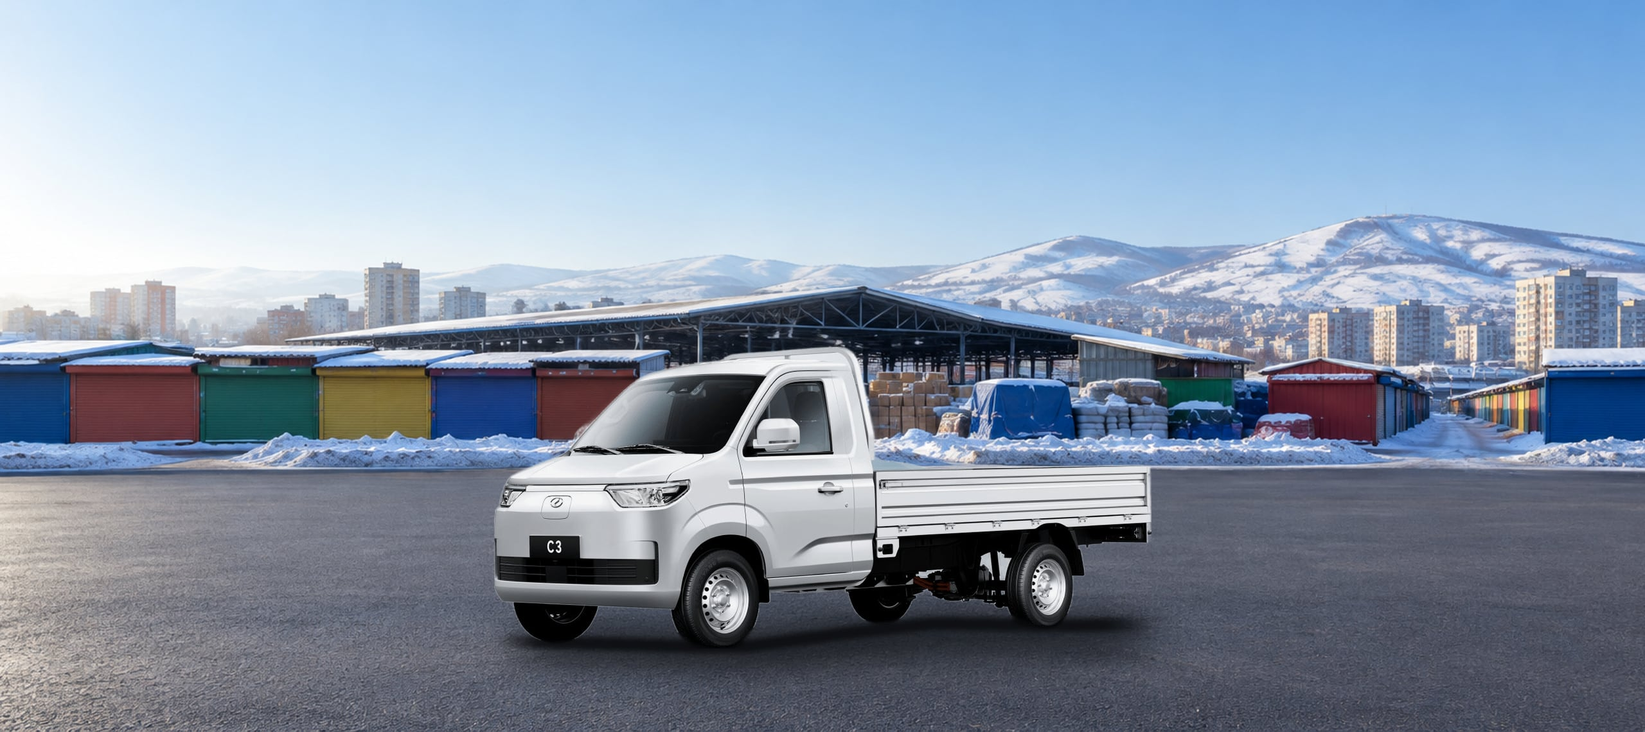
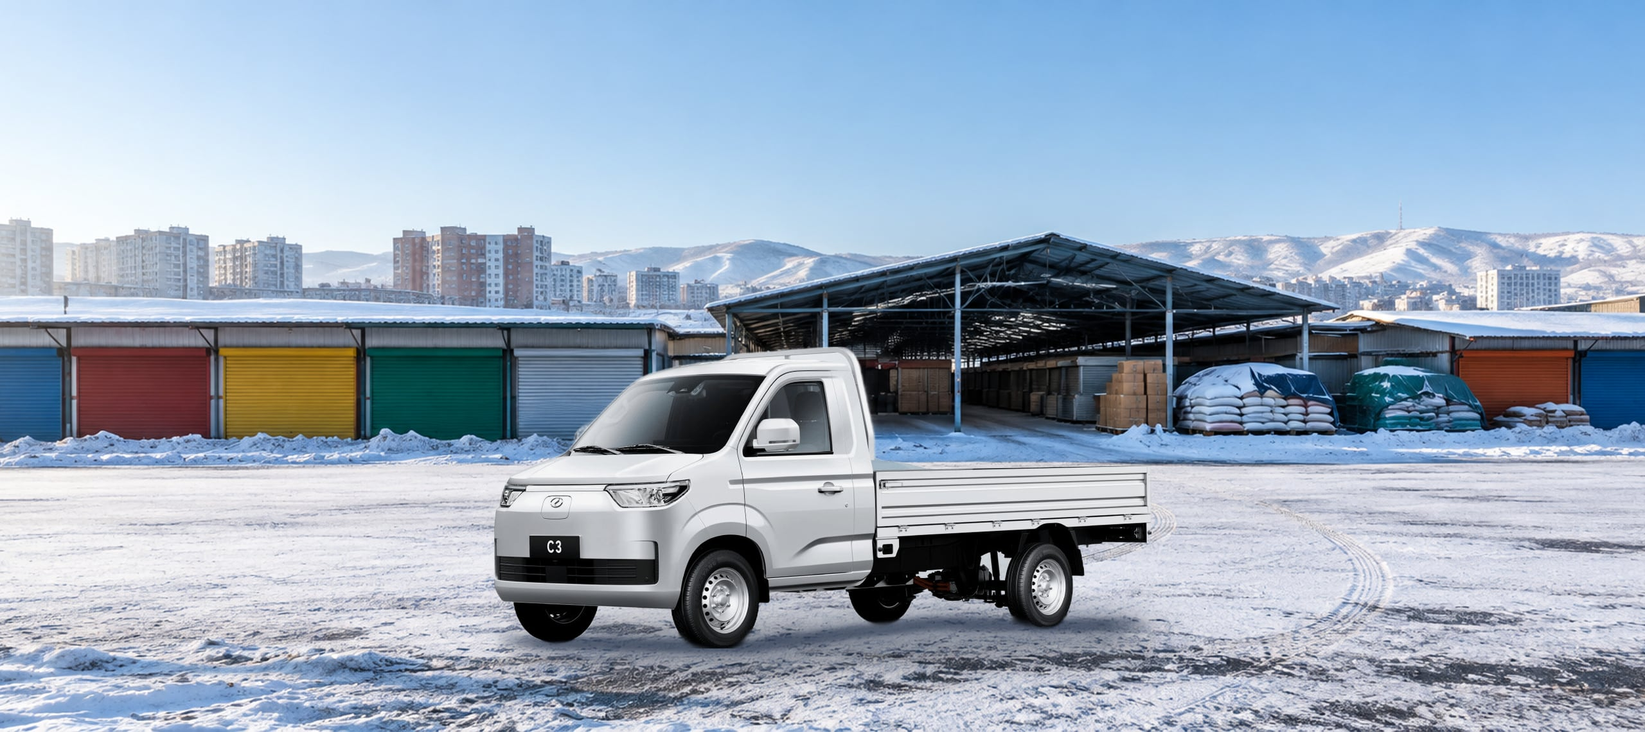
Өвлийн өнгө төрх Hero. сарын нэмнэлт өөрчлөлт

diff --git a/components/layout/SiteFooter.tsx b/components/layout/SiteFooter.tsx
@@ -1,12 +1,17 @@
 import Link from "next/link";
 import type { NavCategory } from "@/data/navigation";
 
-// TODO: Албан ёсны сошиал болон "Бидний тухай" хуудсуудын URL-ийг оруулах.
-const about = [
-  { label: "Танилцуулга", href: "#" },
-  { label: "Шинэ мэдээ", href: "#" },
-  { label: "Хүсэлт илгээх", href: "/#test-drive" },
-  { label: "Нууцын бодлого", href: "/legal/privacy/" }
+// Footer, variant B (user, 2026-11-15): a test-drive call to action on top (the button left the navbar, so
+// every page ends with a way to it), then four columns. Every model used to be listed here with its
+// description (~1,000px); the models are in the navbar menus, so the footer links the six categories to the
+// filtered homepage list instead (~420px).
+// TODO: real phone number, opening hours, street address and social URLs (the icons still point to "#").
+
+const services = [
+  { label: "Ногоон зээл", href: "/green-loan/" },
+  { label: "Батерейн баталгаа", href: "/warranty/" },
+  { label: "Туршилтын жолоодлого", href: "/#test-drive" },
+  { label: "Урьдчилсан захиалга", href: "/preorder/" }
 ];
 
 const legal = [
@@ -15,75 +20,84 @@ const legal = [
   { label: "Күүки тохиргоо", href: "/legal/cookies/" }
 ];
 
+const heading = "m-0 mb-3 text-xs font-bold uppercase tracking-[.08em] text-white";
+const list = "m-0 grid list-none gap-2 p-0 text-small text-[#cfe2d8]";
+const link = "text-[#cfe2d8] no-underline hover:text-white hover:underline";
+
 export function SiteFooter({ navigation }: { navigation: NavCategory[] }) {
   return (
-    <footer className="site-footer">
-      <div className="site-footer__main">
-        <nav className="site-footer__models" aria-label="Загварууд">
-          <Link className="site-footer__logo" href="/" aria-label="Нүүр хуудас">
-            <img src="/assets/brand-logo-transparent.png" width={57} height={36} alt="" />
-          </Link>
-          <h2 className="site-footer__heading">Загварууд</h2>
-          <div className="site-footer__groups">
-            {navigation.map((category) => (
-              <div className="site-footer__group" key={category.id}>
-                <h3>{category.label}</h3>
-                <ul>
-                  {category.items.map((item) => (
-                    <li key={item.key}>
-                      <Link href={item.href}>
-                        <span className="site-footer__model">{item.name}</span>{" "}
-                        <span className="site-footer__desc">{item.desc}</span>
-                      </Link>
-                    </li>
-                  ))}
-                </ul>
-              </div>
-            ))}
+    <footer className="tw bg-[#083d28] text-[#dfeee6]">
+      <div className="bg-[#0f5a3a] px-global">
+        <div className="mx-auto flex max-w-[1376px] flex-wrap items-center justify-between gap-4 py-6">
+          <div>
+            <p className="m-0 text-[20px] font-bold tracking-tight text-white">Машинаа өөрөө туршаад үзээрэй</p>
+            <p className="m-0 text-small text-[#cfe7da]">Туршилтын жолоодлогод бүртгүүлэхэд хэдхэн минут</p>
           </div>
-        </nav>
+          <Link className="btn min-h-[44px] border-white bg-white px-6 text-[#0f5a3a] hover:bg-[#d9f7e5]" href="/#test-drive">Туршилтын жолоодлого</Link>
+        </div>
+      </div>
 
-        <div className="site-footer__about">
-          <div className="site-footer__block">
-            <h2 className="site-footer__heading">Бидний тухай</h2>
-            <ul>
-              {about.map((item) => <li key={item.label}><a href={item.href}>{item.label}</a></li>)}
+      <div className="px-global">
+        <div className="mx-auto grid max-w-[1376px] gap-8 py-10 sm:grid-cols-2 lg:grid-cols-[1.4fr_1fr_1fr_1fr]">
+          <div>
+            <Link href="/" aria-label="Нүүр хуудас" className="mb-3 inline-block">
+              <img src="/assets/brand-logo-transparent.png" width={57} height={36} alt="" className="block brightness-0 invert" />
+            </Link>
+            <p className="m-0 mb-4 max-w-[34ch] text-small text-[#cfe2d8]">Цахилгаан ачааны болон зорчигчийн машин. −30°C-т туршсан, 6 жил / 300,000 км батерейн баталгаатай.</p>
+            <ul className="m-0 flex list-none gap-2 p-0" aria-label="Биднийг дагах">
+              {[
+                { label: "Facebook", path: <path fill="currentColor" d="M13.5 21v-7.6h2.6l.4-3h-3V8.5c0-.9.3-1.5 1.5-1.5h1.6V4.3c-.3 0-1.2-.1-2.3-.1-2.3 0-3.9 1.4-3.9 4v2.2H7.8v3h2.6V21h3.1z" /> },
+                { label: "Instagram", path: <><rect x="3.5" y="3.5" width="17" height="17" rx="5" fill="none" stroke="currentColor" strokeWidth="2" /><circle cx="12" cy="12" r="3.8" fill="none" stroke="currentColor" strokeWidth="2" /><circle cx="17.2" cy="6.8" r="1.2" fill="currentColor" /></> },
+                { label: "YouTube", path: <path fill="currentColor" d="M21.6 7.2a2.5 2.5 0 0 0-1.8-1.8C18.2 5 12 5 12 5s-6.2 0-7.8.4a2.5 2.5 0 0 0-1.8 1.8C2 8.8 2 12 2 12s0 3.2.4 4.8a2.5 2.5 0 0 0 1.8 1.8C5.8 19 12 19 12 19s6.2 0 7.8-.4a2.5 2.5 0 0 0 1.8-1.8c.4-1.6.4-4.8.4-4.8s0-3.2-.4-4.8zM10 15V9l5.2 3L10 15z" /> }
+              ].map((social) => (
+                <li key={social.label}>
+                  <a href="#" aria-label={social.label} target="_blank" rel="noopener" className="grid h-9 w-9 place-items-center rounded-full bg-white/10 text-white hover:bg-white hover:text-[#0f5a3a]">
+                    <svg width="18" height="18" viewBox="0 0 24 24" aria-hidden="true">{social.path}</svg>
+                  </a>
+                </li>
+              ))}
             </ul>
           </div>
 
-          <div className="site-footer__block">
-            <h2 className="site-footer__heading">Холбоо барих</h2>
-            <div className="site-footer__address">
-              <p><span>Хаяг</span>Улаанбаатар хот</p>
-              <a className="site-footer__location" href="https://www.google.com/maps/search/?api=1&query=Ulaanbaatar" target="_blank" rel="noopener">
-                <svg width="16" height="16" viewBox="0 0 24 24" aria-hidden="true"><path d="M12 22s7-6.2 7-12a7 7 0 1 0-14 0c0 5.8 7 12 7 12z" fill="none" stroke="currentColor" strokeWidth="2" strokeLinejoin="round" /><circle cx="12" cy="10" r="2.6" fill="none" stroke="currentColor" strokeWidth="2" /></svg>
-                Байршил
-              </a>
-            </div>
-          </div>
+          <nav aria-label="Загварууд">
+            <h2 className={heading}>Загварууд</h2>
+            <ul className={list}>
+              {navigation.map((category) => (
+                <li key={category.id}><Link className={link} href={`/?category=${category.id}#models`}>{category.label}</Link></li>
+              ))}
+            </ul>
+          </nav>
 
-          <div className="site-footer__block">
-            <h2 className="site-footer__heading">Биднийг дагах</h2>
-            <ul className="site-footer__social">
-              <li><a href="#" aria-label="Facebook" target="_blank" rel="noopener">
-                <svg width="20" height="20" viewBox="0 0 24 24" aria-hidden="true"><path fill="currentColor" d="M13.5 21v-7.6h2.6l.4-3h-3V8.5c0-.9.3-1.5 1.5-1.5h1.6V4.3c-.3 0-1.2-.1-2.3-.1-2.3 0-3.9 1.4-3.9 4v2.2H7.8v3h2.6V21h3.1z" /></svg>
-              </a></li>
-              <li><a href="#" aria-label="Instagram" target="_blank" rel="noopener">
-                <svg width="20" height="20" viewBox="0 0 24 24" aria-hidden="true"><rect x="3.5" y="3.5" width="17" height="17" rx="5" fill="none" stroke="currentColor" strokeWidth="2" /><circle cx="12" cy="12" r="3.8" fill="none" stroke="currentColor" strokeWidth="2" /><circle cx="17.2" cy="6.8" r="1.2" fill="currentColor" /></svg>
-              </a></li>
-              <li><a href="#" aria-label="YouTube" target="_blank" rel="noopener">
-                <svg width="22" height="22" viewBox="0 0 24 24" aria-hidden="true"><path fill="currentColor" d="M21.6 7.2a2.5 2.5 0 0 0-1.8-1.8C18.2 5 12 5 12 5s-6.2 0-7.8.4a2.5 2.5 0 0 0-1.8 1.8C2 8.8 2 12 2 12s0 3.2.4 4.8a2.5 2.5 0 0 0 1.8 1.8C5.8 19 12 19 12 19s6.2 0 7.8-.4a2.5 2.5 0 0 0 1.8-1.8c.4-1.6.4-4.8.4-4.8s0-3.2-.4-4.8zM10 15V9l5.2 3L10 15z" /></svg>
-              </a></li>
+          <nav aria-label="Үйлчилгээ">
+            <h2 className={heading}>Үйлчилгээ</h2>
+            <ul className={list}>
+              {services.map((item) => <li key={item.label}><Link className={link} href={item.href}>{item.label}</Link></li>)}
+            </ul>
+          </nav>
+
+          <div>
+            <h2 className={heading}>Холбоо барих</h2>
+            <ul className={list}>
+              <li>Улаанбаатар хот</li>
+              <li>
+                <a className={`${link} inline-flex items-center gap-1.5`} href="https://www.google.com/maps/search/?api=1&query=Ulaanbaatar" target="_blank" rel="noopener">
+                  <svg width="15" height="15" viewBox="0 0 24 24" aria-hidden="true"><path d="M12 22s7-6.2 7-12a7 7 0 1 0-14 0c0 5.8 7 12 7 12z" fill="none" stroke="currentColor" strokeWidth="2" strokeLinejoin="round" /><circle cx="12" cy="10" r="2.6" fill="none" stroke="currentColor" strokeWidth="2" /></svg>
+                  Байршил
+                </a>
+              </li>
+              <li><Link className={link} href="/#test-drive">Хүсэлт илгээх</Link></li>
             </ul>
           </div>
         </div>
       </div>
 
-      <div className="site-footer__bottom">
-        <p>© {new Date().getFullYear()}. Бүх эрх хуулиар хамгаалагдсан.</p>
-        <ul>
-          {legal.map((item) => <li key={item.label}><Link href={item.href}>{item.label}</Link></li>)}
-        </ul>
+      <div className="border-0 border-t border-solid border-white/15 px-global">
+        <div className="mx-auto flex max-w-[1376px] flex-wrap items-center justify-between gap-x-6 gap-y-2 py-4 text-small text-[#a9c7b8]">
+          <p className="m-0">© {new Date().getFullYear()}. Бүх эрх хуулиар хамгаалагдсан.</p>
+          <ul className="m-0 flex list-none flex-wrap gap-x-5 gap-y-1 p-0">
+            {legal.map((item) => <li key={item.label}><Link className="text-[#a9c7b8] no-underline hover:text-white" href={item.href}>{item.label}</Link></li>)}
+          </ul>
+        </div>
       </div>
     </footer>
   );

diff --git a/components/home/SavingsTeaser.tsx b/components/home/SavingsTeaser.tsx
@@ -1,0 +1,150 @@
+"use client";
+import { useMemo, useState } from "react";
+import { FuelPriceTable, useOpenSavings } from "@/components/forms/SavingsCalculator";
+import { calculateSavings, ELECTRICITY_PRICE, EXTENDER_FUEL_USE, type CalcModel, type FuelPrices } from "@/data/savings";
+
+// Fuel-cost section right under the hero (user, 2026-11-15; reference: a "business profit calculator" with a
+// km slider and three result cards). One model and the visitor's km per day give three figures: the diesel
+// vehicle's monthly fuel, the Ruichi's monthly charging, and the yearly saving. Each card has a bar on a fixed
+// scale (the figure at the slider's maximum), so the bars rise and fall as the slider moves. Same formula,
+// models and today's fuel prices as the full calculator, which "Дэлгэрэнгүй тооцоолох" opens.
+const MODELS = ["ec75pro-cargo", "r5pro-passenger", "c5-reev", "c3", "ed71s"];
+const DAYS = 26;
+const KM_MIN = 20, KM_MAX = 300, KM_START = 80;
+const STOPS = [
+  { km: 40, label: "Хот дотор" },
+  { km: 150, label: "Идэвхтэй түгээлт" },
+  { km: 300, label: "Хот хооронд" }
+];
+
+const tugrik = (v: number) => `${Math.round(v).toLocaleString("en-US")} ₮`;
+const stopLeft = (km: number) => `${((km - KM_MIN) / (KM_MAX - KM_MIN)) * 100}%`;
+
+function costs(model: CalcModel, kmPerDay: number, prices: FuelPrices["prices"]) {
+  return calculateSavings({
+    model, compareFuel: model.compare.fuel, compareConsumption: model.compare.consumption,
+    kmPerDay, daysPerMonth: DAYS, price: 0, downPercent: 0, months: 0, income: "salary"
+  }, prices);
+}
+
+/** A result card: label, figure, note, and a bar whose height is value / max. */
+function Card({ tone, label, value, note, share }: { tone: "diesel" | "ruichi" | "saving"; label: string; value: string; note: string; share: number }) {
+  const styles = {
+    diesel: { box: "border-line bg-white", label: "text-ink-muted", value: "text-ink", note: "text-ink-muted", track: "bg-[#eef1ef]", bar: "bg-[#b3bbb6]" },
+    ruichi: { box: "border-[#bcd7c7] bg-[#f3f9f5]", label: "text-[#0f5a3a]", value: "text-[#0f5a3a]", note: "text-ink-muted", track: "bg-[#e1efe6]", bar: "bg-[#1f8a57]" },
+    saving: { box: "border-[#0f5a3a] bg-[#0f5a3a]", label: "text-white/80", value: "text-white", note: "text-white/80", track: "bg-white/15", bar: "bg-white" }
+  }[tone];
+  return (
+    <div className={`flex min-w-0 items-end justify-between gap-4 rounded-card border border-solid p-5 ${styles.box}`}>
+      <div className="min-w-0">
+        <p className={`m-0 text-xs font-bold uppercase tracking-[.06em] ${styles.label}`}>{label}</p>
+        <p className={`m-0 mt-2 text-[clamp(24px,2.6vw,32px)] font-bold leading-none tracking-tight tabular-nums ${styles.value}`}>{value}</p>
+        <p className={`m-0 mt-2 text-small ${styles.note}`}>{note}</p>
+      </div>
+      {/* Bar on a fixed scale: rises and falls with the km slider. The figure is in the text, so it is hidden. */}
+      <div className={`relative h-[112px] w-[34px] shrink-0 overflow-hidden rounded-md ${styles.track}`} aria-hidden="true">
+        <span
+          className={`absolute inset-x-0 bottom-0 rounded-t-md ${styles.bar} transition-[height] duration-300 ease-out motion-reduce:transition-none`}
+          style={{ height: `${Math.max(3, Math.min(100, share * 100))}%` }}
+        />
+      </div>
+    </div>
+  );
+}
+
+export function SavingsTeaser({ models, fuelPrices }: { models: CalcModel[]; fuelPrices: FuelPrices }) {
+  const openCalculator = useOpenSavings();
+  const choices = useMemo(
+    () => MODELS.map((slug) => models.find((m) => m.slug === slug)).filter((m): m is CalcModel => Boolean(m)),
+    [models]
+  );
+  const [index, setIndex] = useState(0);
+  const [kmPerDay, setKmPerDay] = useState(KM_START);
+  const model = choices[index];
+  if (!model) return null;
+
+  const now = costs(model, kmPerDay, fuelPrices.prices);
+  const atMax = costs(model, KM_MAX, fuelPrices.prices);
+  const saving = Math.max(0, now.saving);
+  const percent = now.fuelCost > 0 ? Math.round((saving / now.fuelCost) * 100) : 0;
+  const extender = model.fuel !== "BEV" && model.evRangeKm;
+
+  return (
+    <section className="section" aria-labelledby="savings-teaser">
+      <div className="container">
+        <div className="tw rounded-card border border-solid border-line bg-white p-5 shadow-[0_10px_30px_rgb(15_35_56/.06)] sm:p-8">
+          <p className="m-0 text-xs font-bold uppercase tracking-[.08em] text-[#147a48]">Бизнесийн ашиг</p>
+          <h2 id="savings-teaser" className="m-0 mt-2 text-[clamp(26px,3.2vw,40px)] font-bold leading-tight tracking-tight text-ink">
+            Түлшний зардлаа <span className="text-[#0f5a3a] tabular-nums">{percent}%</span> бууруулна
+          </h2>
+          <p className="m-0 mt-2 max-w-[62ch] text-regular text-ink-secondary">
+            Өдөр бүр ажилладаг дизель машин болон {model.name}-ийн сар, жилийн зардлыг харьцуулаарай.
+          </p>
+
+          <div className="mt-5 flex flex-wrap gap-1.5" role="group" aria-label="Загвар">
+            {choices.map((m, i) => (
+              <button
+                key={m.value} type="button" aria-pressed={i === index} onClick={() => setIndex(i)}
+                className={`cursor-pointer rounded-full border border-solid px-3.5 py-2 font-[inherit] text-[13.5px] font-semibold ${i === index ? "border-[#0f5a3a] bg-[#0f5a3a] text-white" : "border-line bg-white text-ink hover:border-[#9cc4ad]"}`}
+              >
+                {m.name}
+              </button>
+            ))}
+          </div>
+
+          <div className="mt-5 rounded-card border border-solid border-line bg-[#fafcfb] px-5 pb-4 pt-4">
+            <div className="flex items-baseline justify-between gap-3">
+              <label htmlFor="teaser-km" className="text-small font-semibold text-ink-secondary">Өдөрт явах дундаж зай</label>
+              <output htmlFor="teaser-km" className="text-[24px] font-bold tabular-nums text-[#0f5a3a]">{kmPerDay} км</output>
+            </div>
+            <input
+              id="teaser-km" type="range" min={KM_MIN} max={KM_MAX} step={10} value={kmPerDay}
+              onChange={(e) => setKmPerDay(Number(e.target.value))} className="mt-2 w-full accent-[#0f5a3a]"
+            />
+            {/* Stops at their own place on the slider; a click jumps there. */}
+            <div className="relative mt-1 h-9 text-xs text-ink-muted">
+              {STOPS.map((stop, i) => (
+                <button
+                  key={stop.km} type="button" onClick={() => setKmPerDay(stop.km)}
+                  className={`absolute top-0 cursor-pointer whitespace-nowrap border-0 bg-transparent p-0 font-[inherit] text-ink-muted hover:text-[#0f5a3a] ${i === 0 ? "text-left" : i === STOPS.length - 1 ? "-translate-x-full text-right" : "-translate-x-1/2 text-center"}`}
+                  style={{ left: stopLeft(stop.km) }}
+                >
+                  <span className="block font-semibold tabular-nums">{stop.km} км</span>
+                  <span className="hidden sm:block">{stop.label}</span>
+                </button>
+              ))}
+            </div>
+          </div>
+
+          <div className="mt-4 grid gap-3 md:grid-cols-3" aria-live="polite">
+            <Card
+              tone="diesel" label="Дизель машин" value={tugrik(now.fuelCost)}
+              note={`Сарын түлш · ${model.compare.name}`} share={now.fuelCost / atMax.fuelCost}
+            />
+            <Card
+              tone="ruichi" label={`${model.name} ${extender ? "зай сунгагчтай" : "цахилгаан"}`} value={tugrik(now.evCost)}
+              note={extender ? "Сарын цэнэг ба бензин" : "Сарын цэнэгийн зардал"} share={now.evCost / atMax.fuelCost}
+            />
+            <Card
+              tone="saving" label="Жилийн цэвэр хэмнэлт" value={tugrik(saving * 12)}
+              note={`Сар бүр ${tugrik(saving)} хэмнэнэ`} share={(saving * 12) / Math.max(1, atMax.saving * 12)}
+            />
+          </div>
+
+          <div className="mt-5 flex flex-wrap items-center justify-between gap-3">
+            <p className="m-0 max-w-[70ch] text-xs leading-relaxed text-ink-muted">
+              Сард {DAYS} өдөр. {model.compare.name}: {model.compare.consumption} л/100 км, дизель {tugrik(fuelPrices.prices.dt)}/л
+              ({fuelPrices.source === "benzin.mn" ? `benzin.mn, ${fuelPrices.asOf}` : `${fuelPrices.asOf}-ны үнэ`}). {model.name}: {model.evConsumption} кВт·ц/100 км,
+              цахилгаан {ELECTRICITY_PRICE}₮/кВт·ц{extender ? `, өдөрт ${model.evRangeKm} км-ээс илүүд бензин ${EXTENDER_FUEL_USE} л/100 км` : ""}. Зөвхөн түлш, цэнэгийн зардал.
+            </p>
+            <button type="button" className="btn btn--primary min-h-[42px] px-5" onClick={() => openCalculator(model.slug)}>Дэлгэрэнгүй тооцоолох</button>
+          </div>
+          <details className="mt-3 text-small">
+            <summary className="cursor-pointer font-semibold text-[#0f5a3a]">Өнөөдрийн шатахууны үнэ</summary>
+            <FuelPriceTable fuelPrices={fuelPrices} selected={model.compare.fuel} />
+          </details>
+        </div>
+      </div>
+    </section>
+  );
+}

diff --git a/src/app/page.tsx b/src/app/page.tsx
@@ -3,8 +3,10 @@ import { ChargerStats, GalleryMosaic, NumberBand, OrderSteps, TestDriveSection }
 import { ModelGrid } from "@/components/cards/ModelGrid";
 import { buildRows } from "@/components/cards/modelFilters";
 import { TestDriveForm } from "@/components/forms/TestDriveForm";
-import { getHeroSlides, getModelCards } from "@/data/content";
+import { SavingsTeaser } from "@/components/home/SavingsTeaser";
+import { getCalculatorModels, getHeroSlides, getModelCards } from "@/data/content";
 import { galleryImages, testDriveModels } from "@/data/home";
+import { getFuelPrices } from "@/lib/fuelPrices";
 
 // Refresh the Supabase content at most once a minute.
 export const revalidate = 60;
@@ -15,7 +17,9 @@ const CHARGERS = [{ value: "50", label: "Хурдан цэнэглэгч" }, { v
 // rows, one number band (promotion + warranty), the order steps, chargers next to the map, photos and
 // the −30°C video as one mosaic, then the test-drive form. About a third of the old page height.
 export default async function HomePage() {
-  const [heroSlides, { cards, categories }] = await Promise.all([getHeroSlides(), getModelCards()]);
+  const [heroSlides, { cards, categories }, calculatorModels, fuelPrices] = await Promise.all([
+    getHeroSlides(), getModelCards(), getCalculatorModels(), getFuelPrices()
+  ]);
   const families = buildRows(cards).reduce((sum, row) => sum + row.families.length, 0);
 
   return (
@@ -23,6 +27,8 @@ export default async function HomePage() {
       <main>
         {/* The carousel also renders the benefit strip, whose first item is the current slide's range. */}
         <HeroCarousel slides={heroSlides} />
+        {/* Cost calculator right under the hero (user, 2026-11-15); the hero subtitles already name each model's work. */}
+        <SavingsTeaser models={calculatorModels} fuelPrices={fuelPrices} />
         <ModelGrid cards={cards} categories={categories} />
         <NumberBand models={families} versions={cards.length} fastChargers={Number(CHARGERS[0].value)} />
         <OrderSteps />

diff --git a/components/forms/SavingsCalculator.tsx b/components/forms/SavingsCalculator.tsx
@@ -16,6 +16,9 @@ export { SAVINGS_STORAGE_KEY, type SavedVehicle };
 
 const SavingsContext = createContext<(slug?: string) => void>(() => {});
 
+/** The calculator's open function, for buttons that are not the standard trigger (homepage cost section). */
+export const useOpenSavings = () => useContext(SavingsContext);
+
 /** Opens the calculator; on a model page pass its slug so that model is chosen. */
 export function SavingsTrigger({ model }: { model?: string }) {
   const open = useContext(SavingsContext);
@@ -271,7 +274,7 @@ export function SavingsProvider({ children, models, fuelPrices }: { children: Re
 }
 
 /** Today's fuel prices per company and the average used; the column of the chosen fuel is highlighted. */
-function FuelPriceTable({ fuelPrices, selected }: { fuelPrices: FuelPrices; selected: FuelCode }) {
+export function FuelPriceTable({ fuelPrices, selected }: { fuelPrices: FuelPrices; selected: FuelCode }) {
   const codes = Object.keys(FUEL_LABELS) as FuelCode[];
   const cell = (code: FuelCode) => `px-2 py-1.5 text-right tabular-nums ${code === selected ? "bg-[#eaf3ee] font-semibold text-[#0f5a3a]" : ""}`;
   const price = (value?: number) => (value ? new Intl.NumberFormat("en-US").format(value) : "—");

diff --git a/src/data/styleguide.ts b/src/data/styleguide.ts
@@ -109,6 +109,7 @@ export const pageSections = [
   { page: "Нүүр хуудас", href: "/", items: [
     ["HeroCarousel + HeroSlide", "Загвар бүрийн слайд, desktop дээр 640px хүртэл", "/"],
     ["BenefitStrip", "Hero-ийн доод ирмэг: тухайн слайдын туулах зай + 4 давуу тал + туршилтын жолоодлого", "/"],
+    ["SavingsTeaser", "Түлшний зардал: загвар + өдрийн км, 3 үзүүлэлт баганатай, өнөөдрийн шатахууны үнэ", "/#savings-teaser"],
     ["ModelGrid + ModelFamilyCard", "Шүүлтүүр, хэрэглээний 3 гүйдэг мөр, загварын гэр бүлийн карт", "/#models"],
     ["NumberBand", "Машинуудын эгнээний зураг, 4 тоо, урамшууллын тууз", "/"],
     ["OrderSteps", "Захиалах 4 алхам", "/"],
